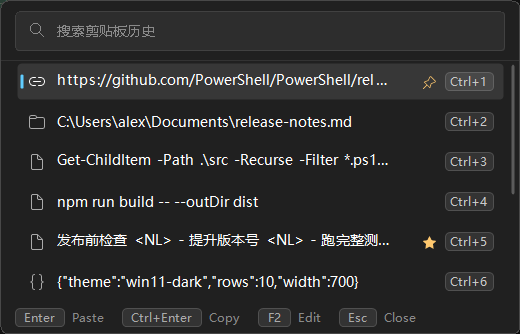
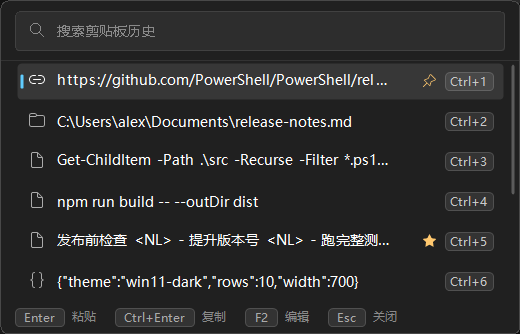
Word the surfaces that still spoke in English
The row menu named a plugin group by its file name and its actions in English: no
language file carried a plugin caption, and pin, star, highlight, open and the
transform modes came from the plugin's own strings, which know nothing of a language.
A plugin's menu text can now be named under plugin.<Name>.<slot>; the plugin's English
stays the fallback, so a language that says nothing changes nothing. The four plugins
that ship here are translated.

The editor card kept a hard-coded Save and Cancel, and its refusals arrived from the
store as English sentences. The store answers with a code as well now: the command
line keeps the English sentence it prints, and the card words the reason from the
language file.

Two more captions were built in code - the line above a preview ("text - 29 chars -
4 lines") and the panel's own counter ("10 of 10   1 pinned", "Paused: ...") - and
now come from the language file too.

The tray shot never asked for a language, so the Chinese set carried an English menu
picture; it calls the same Sync-UiLanguage the tray does. Every Chinese shot is
regenerated, and the README states where a menu label's words come from.

diff --git a/README.md b/README.md
@@ -535,7 +535,7 @@ A plugin is one `.ps1` file returning a hashtable.
 | `Description` | no | one line, shown by `clipboard config` |
 | `Commands` | no | `@{ 'open' = { param($value) ... } }` → `clipboard open <value>` |
 | `CommandHelp` / `CommandOrder` | no | one line per command for `clipboard help` / the order they print in |
-| `ContextMenu` | no | context-menu rows; each has `Label`, `Test` (hidden when it returns `$false`), `Invoke` and an optional `After = 'paste'` (paste once the action ends). A script block returning the same shape is accepted, so the rows can follow the plugin's settings. A string `Invoke` returns becomes the footer note |
+| `ContextMenu` | no | context-menu rows; each has `Label` (a language file may name the words under `plugin.<Name>.<slot>`, the plugin's own English is the fallback), `Test` (hidden when it returns `$false`), `Invoke` and an optional `After = 'paste'` (paste once the action ends). A script block returning the same shape is accepted, so the rows can follow the plugin's settings. A string `Invoke` returns becomes the footer note |
 | `PanelKeys` | no | panel keys (`Key` / `Ctrl` / `Label` / `Test` / `Invoke`) that never override the base keys; a returned string lands in the footer |
 | `TypeGlyph` | no | `{ param($payload) ... }`, entry → row icon (nothing is drawn on an empty answer); the first plugin with a non-empty answer wins |
 | `QueryKinds` | no | extra `type:` names the plugin answers (`@{ code = { param($payload) ... } }`); the first declaration of a name wins |

diff --git a/README.zh-CN.md b/README.zh-CN.md
@@ -534,7 +534,7 @@ Plugins=item-marks,entry-actions
 | `Description` | 否 | 一句话说明，`clipboard config` 展示 |
 | `Commands` | 否 | `@{ 'open' = { param($value) ... } }` → `clipboard open <值>` |
 | `CommandHelp` / `CommandOrder` | 否 | 每个命令的一行说明（`clipboard help` 用）/ 打印顺序 |
-| `ContextMenu` | 否 | 右键菜单项数组；每项含 `Label`、`Test`（返回 `$false` 时不显示）、`Invoke`、可选的 `After = 'paste'`（动作结束后直接粘贴）。也可写成返回同构数组的脚本块，使项数跟随插件设置。`Invoke` 返回字符串时作为底部提示显示 |
+| `ContextMenu` | 否 | 右键菜单项数组；每项含 `Label`（文字可由语言包用 `plugin.<插件 Name>.<槽位>` 命名，缺键时用插件给的英文）、`Test`（返回 `$false` 时不显示）、`Invoke`、可选的 `After = 'paste'`（动作结束后直接粘贴）。也可写成返回同构数组的脚本块，使项数跟随插件设置。`Invoke` 返回字符串时作为底部提示显示 |
 | `PanelKeys` | 否 | 面板按键数组（`Key` / `Ctrl` / `Label` / `Test` / `Invoke`），不覆盖基础按键；`Invoke` 返回的字符串显示在底部提示行 |
 | `TypeGlyph` | 否 | `{ param($payload) ... }`，条目 → 行图标（返回空则不画）；第一个给出非空值的插件胜出 |
 | `QueryKinds` | 否 | 插件额外提供的 `type:` 名字（`@{ code = { param($payload) ... } }`），同名以先声明者为准 |
